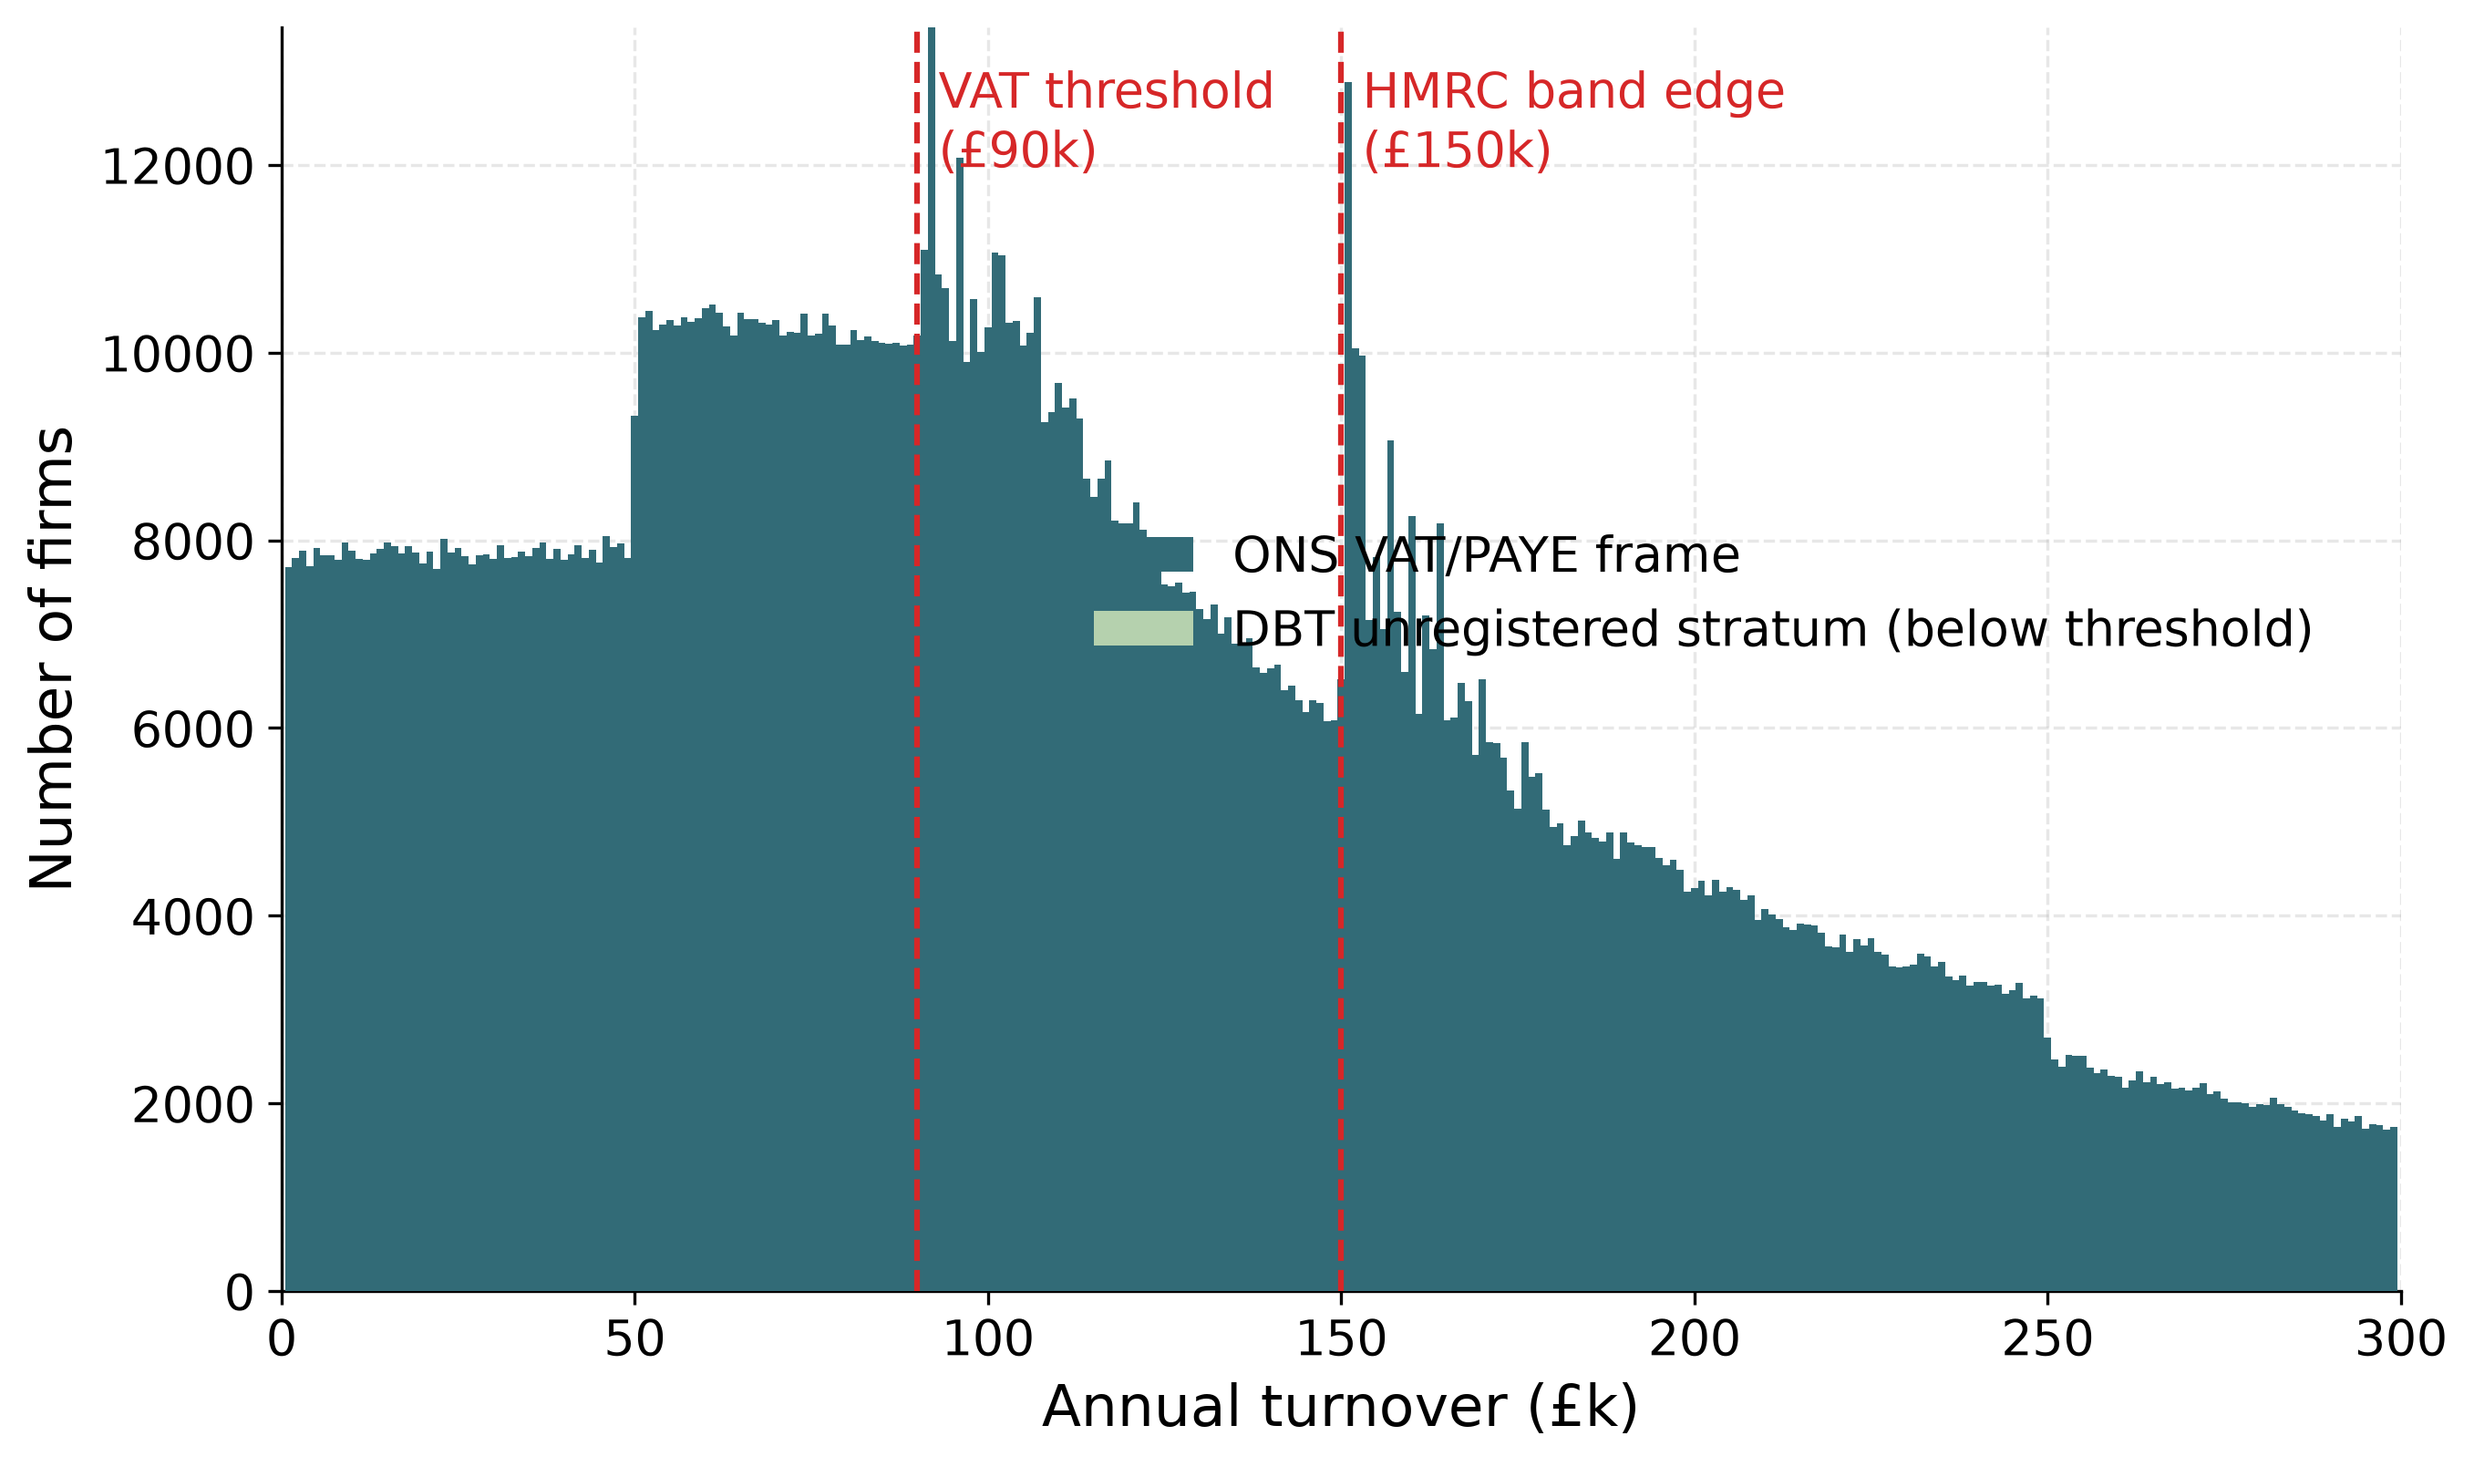
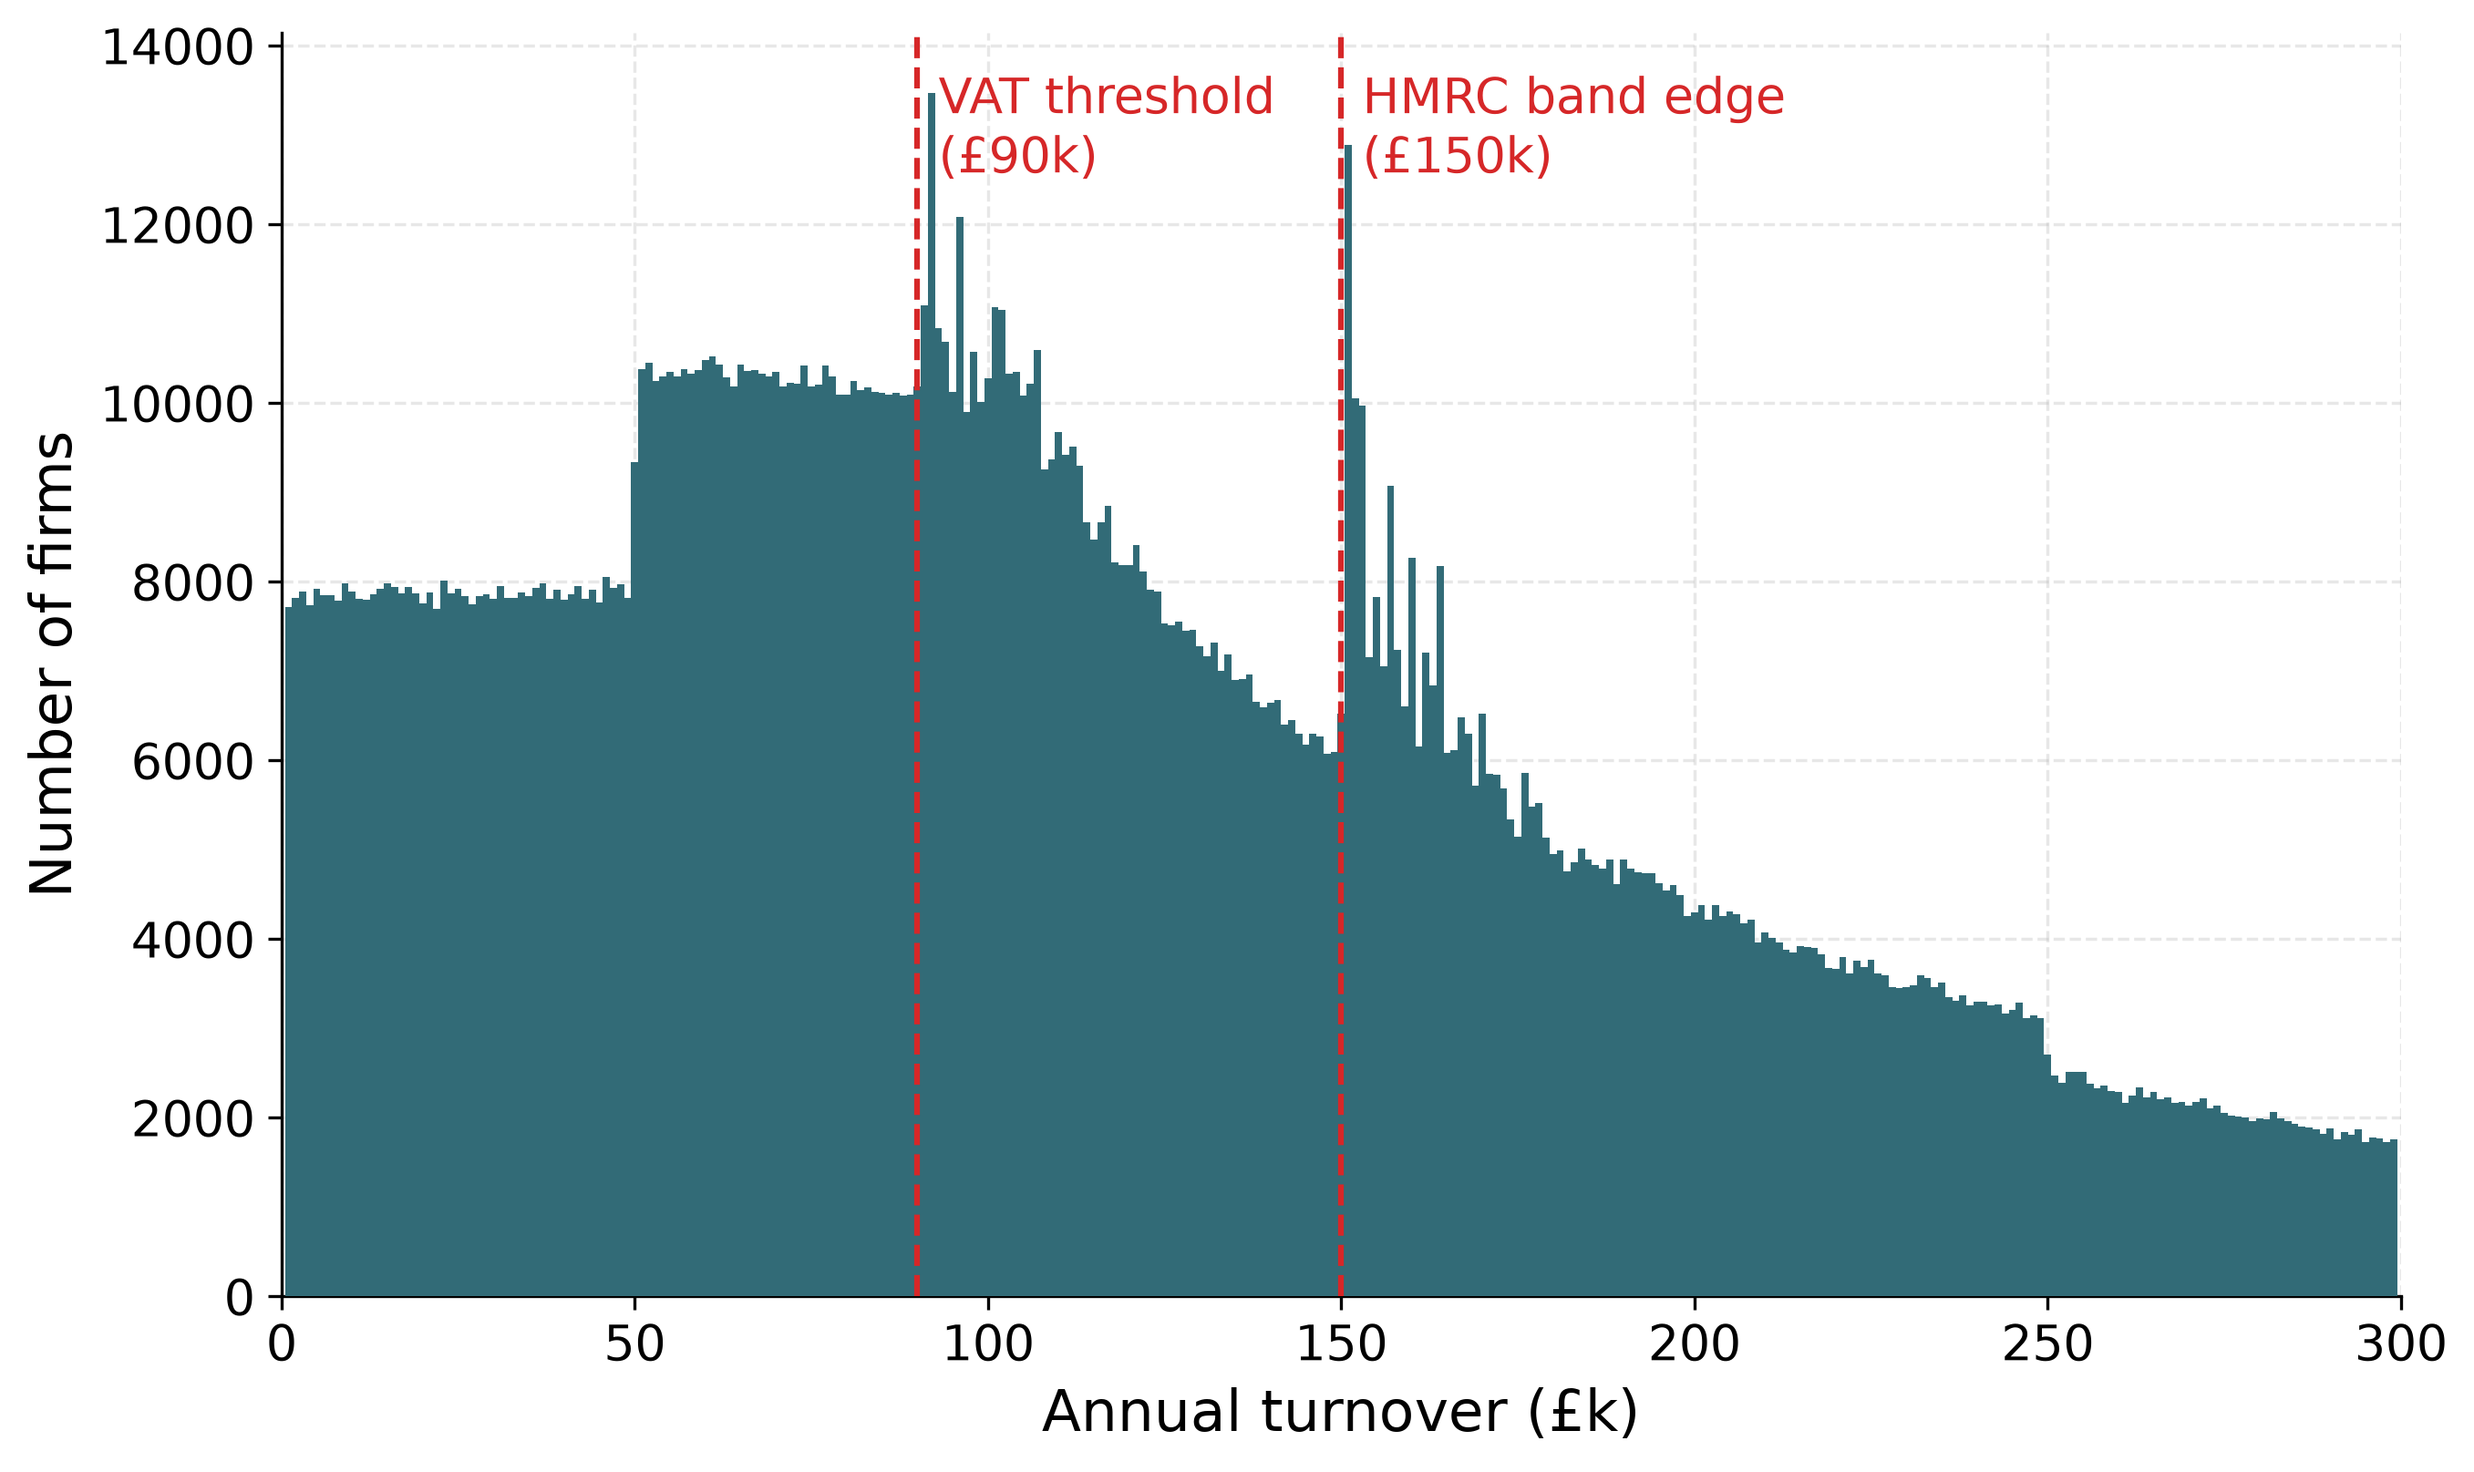
Sync remaining prose to the frame-only build; Figure 3 draws the frame alone when no stratum is generated

diff --git a/paper/Sections/static.tex b/paper/Sections/static.tex
@@ -113,7 +113,7 @@ published costing, 2024--25 to 2028--29. Both series narrow over the
 forecast and turn positive by 2028--29 because the costing baseline is a
 counterfactual threshold path that resumes uprating after March~2026 and
 overtakes \pounds90{,}000. The mechanical estimate, with no retention or
-behavioural parameter, lies within 30\% of the official profile in each of
+behavioural parameter, lies within a third of the official profile in each of
 the four release years (within 10\% in 2025--26 and 2026--27) and 36\%
 above it in the sign-flip year; the 43\% retention
 convention undershoots it. Because the microdata are calibrated
@@ -131,7 +131,8 @@ turnover distribution fixed, so the revenue change reflects only the
 reclassification of in-scope firms into or out of the VAT net. Because the
 optimiser determines the within-band shape near the threshold
 (Section~\ref{sec:data}), and because the 2024--25 vintage has no fine-band
-targets, so that its density steps at the \pounds90{,}000 HMRC band edge
+targets, so that its density around \pounds90{,}000 is the log--log
+within-band fill rather than a calibrated profile
 (Section~\ref{sec:bunching}), the $\pm\pounds5{,}000$ rows are conditional on
 that synthetic within-band allocation. Lowering the threshold draws in
 in-scope frame firms not already registered; raising it releases registered

diff --git a/paper/Sections/bunching.tex b/paper/Sections/bunching.tex
@@ -43,11 +43,13 @@ $b_{\mathrm{LLAT}}$ from zero to 2.7). On in-scope firms
 alone the same specification gives $E=8{,}668$
 (Appendix~\ref{app:inference}). The 2024--25 population, which has no
 fine-band targets, makes the complementary point: at its \pounds90{,}000
-threshold the estimator returns $E=0$ and $b_{\mathrm{LLAT}}=0.000$,
-produced by the step between the two HMRC coarse bands that meet at
-\pounds90{,}000, which the weight optimiser resolves as a density step; that
-step is why the $\pm\pounds5{,}000$ rows of Table~\ref{tab:static_revenue}
-are flagged as conditional on the within-band allocation. Appendix~\ref{app:inference} reports two constructed-data exercises that
+threshold the estimator returns $E=0$ and $b_{\mathrm{LLAT}}=0.000$: with
+no calibrated profile, the log--log within-band fill is smooth through the
+\pounds90{,}000 HMRC band edge, the signed net excess is negative, and the
+estimator reads no false-positive bunching. The absence of any calibrated
+sub-band structure there is why the $\pm\pounds5{,}000$ rows of
+Table~\ref{tab:static_revenue} are flagged as conditional on the
+within-band allocation. Appendix~\ref{app:inference} reports two constructed-data exercises that
 characterise the estimator itself.
 
 

diff --git a/paper/Sections/conclusion.tex b/paper/Sections/conclusion.tex
@@ -38,10 +38,10 @@ Bunching readback, 2023--24 & $E$; $b_{\mathrm{LLAT}}$ & $1{,}335$; $0.178$ (tar
 
 \paragraph{Findings.} On the common \pounds85{,}000 baseline, raising the
 threshold to \pounds100{,}000 costs \pounds590m, a taper across the
-\pounds85{,}000--\pounds141{,}667 band costs \pounds1{,}407m (linear phase-in) or
-\pounds932m (constant 50\% marginal rate), and the 10\% and 15\%
-reduced-rate bands cost \pounds398m and \pounds199m. The mechanical anchor
-is consistent with HMRC's published costing profile to within 30\% in each
+\pounds85{,}000--\pounds141{,}667 band costs \pounds1{,}415m (linear phase-in) or
+\pounds938m (constant 50\% marginal rate), and the 10\% and 15\%
+reduced-rate bands cost \pounds401m and \pounds201m. The mechanical anchor
+is consistent with HMRC's published costing profile to within a third in each
 of the four release years (within 10\% in 2025--26 and 2026--27) and 36\%
 in the sign-flip year, once band membership is evaluated on data-year
 turnover; it is an internal consistency check rather

diff --git a/src/firm_microsim/figures.py b/src/firm_microsim/figures.py
@@ -154,7 +154,8 @@ def plot_turnover_distribution(vintage: str) -> None:
     edges = np.arange(0.5, 300.5, 1.0)
     centres = (edges[:-1] + edges[1:]) / 2.0
     fig, ax = plt.subplots(figsize=(10, 6))
-    if "unregistered" in df.columns:
+    has_stratum = "unregistered" in df.columns and bool(df["unregistered"].astype(bool).any())
+    if has_stratum:
         # OBR-chart universe: frame everywhere, unregistered stratum below the
         # threshold only (above it the stratum is exempt traders outside the
         # chart's registration analysis). Stacked so the two are visible.
@@ -170,6 +171,8 @@ def plot_turnover_distribution(vintage: str) -> None:
                   bbox_to_anchor=(0.98, 0.55))
         counts = c_frame + c_strat
     else:
+        if "in_frame" in df.columns:
+            df = df[df["in_frame"].astype(bool)]
         counts, _ = np.histogram(df["annual_turnover_k"], bins=edges, weights=df["weight"])
         ax.bar(centres, counts, width=1.0, color=PRIMARY, zorder=3)
 

diff --git a/paper/Sections/intro.tex b/paper/Sections/intro.tex
@@ -54,7 +54,7 @@ On these data I do four things. First, I cost level reforms and schedule reforms
 Four findings follow. First, the static pipeline prices level, shape, and
 rate reforms on one basis; its anchor---the April 2024 rise from
 \pounds85{,}000 to \pounds90{,}000, whose mechanical cost profile lands
-within 30\% of HMRC's published costing in each of the four release years
+within a third of HMRC's published costing in each of the four release years
 (within 10\% in 2025--26 and 2026--27) and 36\% above it in the sign-flip
 year, with no retention or behavioural parameter tuned---is a consistency check rather than an out-of-sample validation, since
 the population is calibrated to HMRC aggregates (Section~\ref{sec:static}). Second, the shape and rate reforms act on the

diff --git a/paper/frontmatter.tex b/paper/frontmatter.tex
@@ -6,7 +6,7 @@ of UK VAT registration-threshold reforms. A weighted synthetic population is
 calibrated to ONS and HMRC aggregates on two declared universes, and
 level, taper and reduced-rate scenarios are costed on a common base. With
 membership evaluated on data-year turnover, a mechanical costing of the April
-2024 rise from \pounds85{,}000 to \pounds90{,}000 lies within 30\% of HMRC's
+2024 rise from \pounds85{,}000 to \pounds90{,}000 lies within a third of HMRC's
 published profile in each release year with no tuned parameter. The notch's
 dominated region is \pounds21{,}250 for a firm with no reclaimable inputs but,
 once unregistered firms bear input VAT, firm-specific and zero for about half
